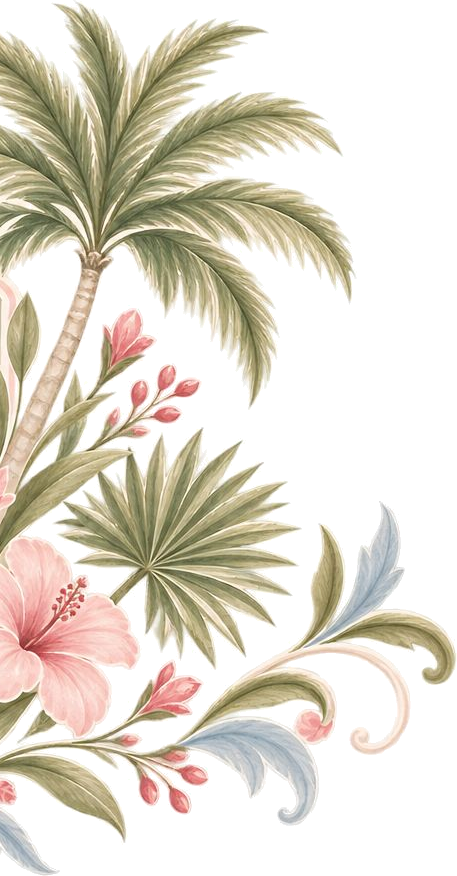
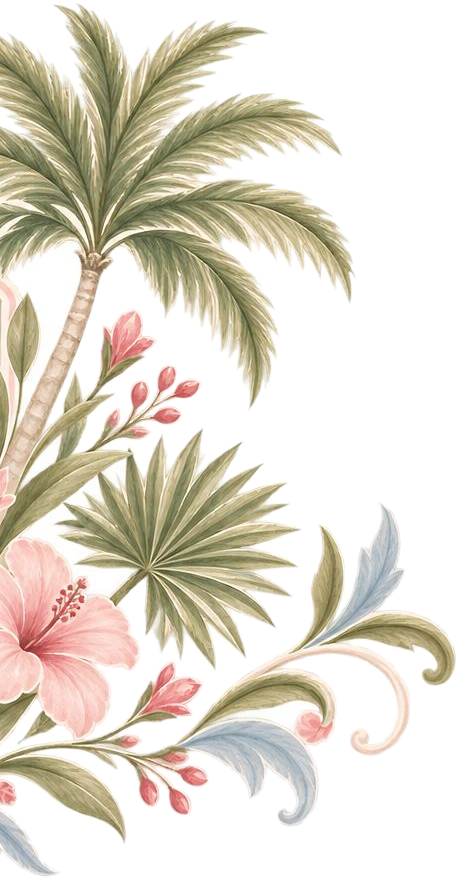
Thay 29 v2: fundo realmente transparente e palmeiras atrás do brasão
O quadrado branco vinha de um véu de ruído semi-transparente da
des-composição do branco. Novo recorte por segmentação: fundo é só o
quase-branco conectado à borda (flood fill) e o desenho fica opaco com
as cores originais — brasão sólido, listras aparecem apenas fora da
arte. Palmeiras ancoradas ao centro, encaixadas ~110px atrás da placa.

diff --git a/themes/thay-29-v2.css b/themes/thay-29-v2.css
@@ -38,10 +38,11 @@
   position: absolute; pointer-events: none; z-index: 0;
   animation: thayFlutua 11s ease-in-out infinite alternate;
 }
-.theme-thay-29-v2 .palmeiras-esq { left: -2%; top: 9%; width: min(26vw, 380px); }
-.theme-thay-29-v2 .palmeiras-dir { right: -2%; top: 12%; width: min(26vw, 380px); animation-delay: -5s; animation-duration: 14s; }
-.theme-thay-29-v2 .palmeiras-fundo-a { right: 20%; top: 3%; width: min(13vw, 175px); opacity: .42; filter: blur(1px); animation-delay: -8s; animation-duration: 17s; }
-.theme-thay-29-v2 .palmeiras-fundo-b { left: 17%; top: 55%; width: min(12vw, 160px); opacity: .38; filter: blur(1px); animation-delay: -3s; animation-duration: 15s; }
+/* Par principal encaixado atrás do brasão (âncora no centro da tela) */
+.theme-thay-29-v2 .palmeiras-esq { right: calc(50% + 15px); left: auto; top: 11%; width: min(32vw, 440px); }
+.theme-thay-29-v2 .palmeiras-dir { left: calc(50% + 15px); right: auto; top: 13%; width: min(32vw, 440px); animation-delay: -5s; animation-duration: 14s; }
+.theme-thay-29-v2 .palmeiras-fundo-a { right: 5%; top: 2%; width: min(13vw, 175px); opacity: .42; filter: blur(1px); animation-delay: -8s; animation-duration: 17s; }
+.theme-thay-29-v2 .palmeiras-fundo-b { left: 4%; top: 52%; width: min(12vw, 160px); opacity: .38; filter: blur(1px); animation-delay: -3s; animation-duration: 15s; }
 @keyframes thayFlutua {
   from { transform: translateY(0) rotate(-1deg); }
   to   { transform: translateY(-18px) rotate(1.2deg); }
@@ -102,8 +103,8 @@
 /* Responsivo */
 @media (max-width: 640px) {
   .theme-thay-29-v2 .thay-placa { width: min(62vw, 250px); }
-  .theme-thay-29-v2 .palmeiras-esq { width: 38vw; left: -10%; top: 6%; opacity: .85; }
-  .theme-thay-29-v2 .palmeiras-dir { width: 38vw; right: -10%; top: 8%; opacity: .85; }
+  .theme-thay-29-v2 .palmeiras-esq { width: 46vw; right: calc(50% - 20px); top: 7%; }
+  .theme-thay-29-v2 .palmeiras-dir { width: 46vw; left: calc(50% - 20px); top: 9%; }
   .theme-thay-29-v2 .palmeiras-fundo-a { display: none; }
   .theme-thay-29-v2 .palmeiras-fundo-b { display: none; }
   .theme-thay-29-v2 .thay-borboleta { width: 46px; }
